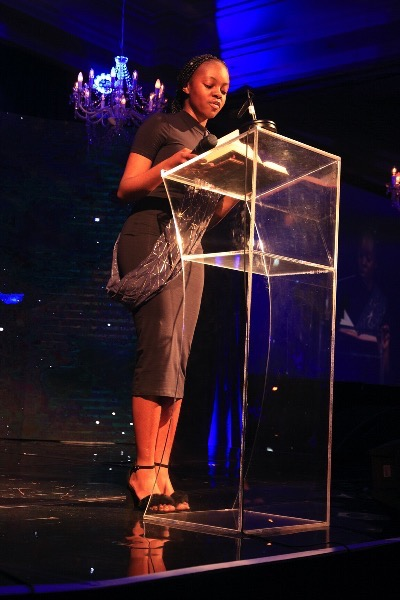
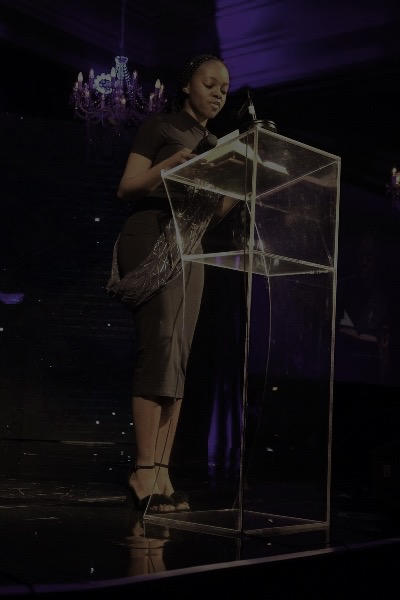
bg

diff --git a/assets/scss/style.scss b/assets/scss/style.scss
@@ -109,7 +109,7 @@ a {
     left: 0;
     right: 0;
     bottom: 0;
-    background: rgba(59, 59, 59, 0.7);
+    background: rgba(97, 96, 96, 0.7);
   }
 }
 
